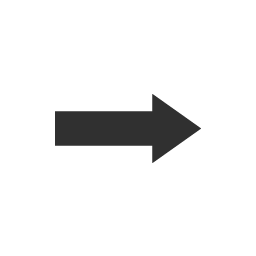
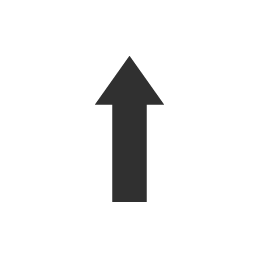
Only showing direction arrow on start

Changed region(s): [[0.1875, 0.2188, 0.7812, 0.8125]]

diff --git a/client/components/game/directives/grid.directive.js b/client/components/game/directives/grid.directive.js
@@ -123,6 +123,9 @@
 					movementService.setMesh(mesh);
 
 					// calculate required position of arrow
+					var deg = dir.rot * (180/Math.PI);
+					$('.direction').css({transform:'translate(-50%, -50%) rotate(' + deg + 'deg)'});
+					$('.direction').show();
 				});
 			}
 

diff --git a/client/components/game/services/movement/movement.service.js b/client/components/game/services/movement/movement.service.js
@@ -111,7 +111,7 @@
 					}
 				}
 			}
-			
+
 			callback();
 		}
 
@@ -197,6 +197,9 @@
 
 				// set stop button
 				imageService.stop();
+
+
+				$('.direction').hide();
 			}
 		}
 

diff --git a/client/assets/css/game.less b/client/assets/css/game.less
@@ -106,6 +106,7 @@
     }
 
     .direction {
+        display: none;
         position: absolute;
         left: 50%;
         top: 50%;

diff --git a/client/assets/css/game.css b/client/assets/css/game.css
@@ -95,6 +95,7 @@
   padding: 5px;
 }
 #level .direction {
+  display: none;
   position: absolute;
   left: 50%;
   top: 50%;
